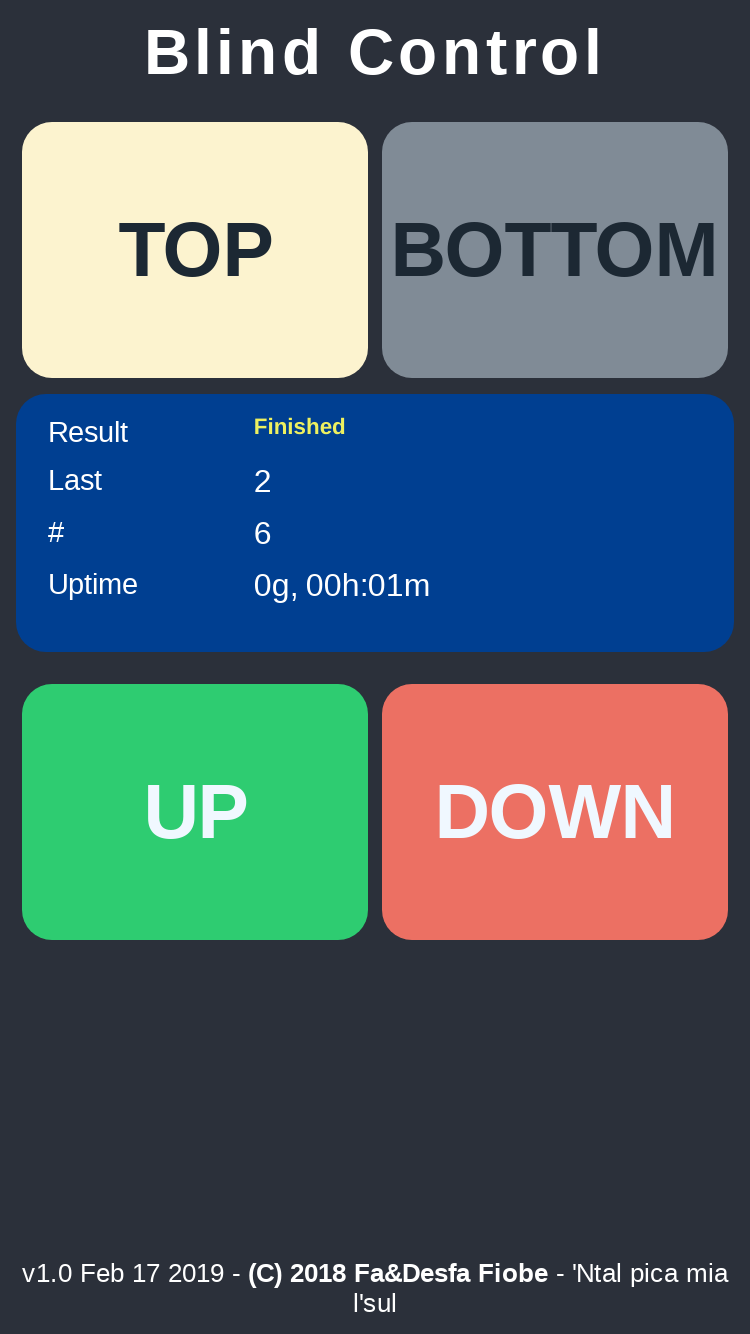
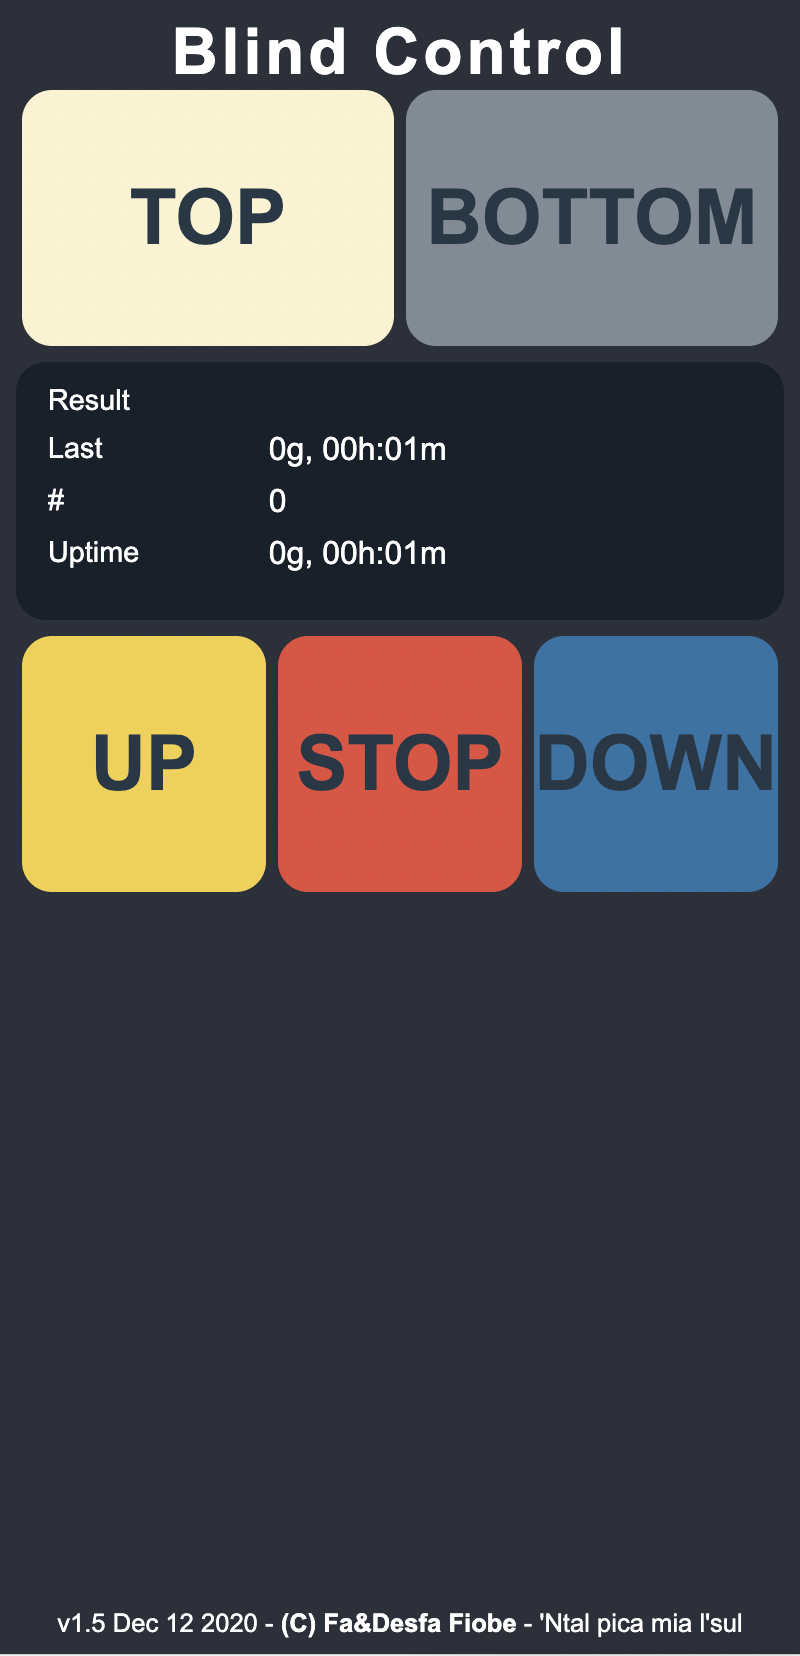
1.5: new wifi mgmt

diff --git a/src/main.cpp b/src/main.cpp
@@ -1,6 +1,6 @@
 /*
- Gates Control
-*/
+   Gates Control
+   */
 #include <pgmspace.h>
 #include <Ticker.h>
 #include "config.h"
@@ -16,20 +16,54 @@
 
 ////////////////////////////////////////////////////////////////////////////////
 BlindControl blindCtl;
-Ticker uptimeCtrTimer;
+static constexpr unsigned int k_MaxConnectTime = 1000UL;
+WIFI* g_WIFI;
+static Ticker uptimeCtrTimer;
 NVConfig  nvConfig;
 
 /******************************************************************************/
 
-static void  uptimeCtrCb(void) {
+static
+void
+uptimeCtrCb (
+    void
+    )
+{
     blindCtl.updateCounters();
 }
 
+static
+void
+ConnectedCallback (
+    void
+    )
+{
+    unsigned int originalState;
 
-void setup(void)
+    originalState = digitalRead(GPIO_LED);
+
+    for (int i = 0; i < 4; i++)
+    {
+        //
+        // Flash led to say we have just connected.
+        //
+        digitalWrite(GPIO_LED, (i % 2) ? originalState : !originalState);
+        delay(100);
+    }
+
+    digitalWrite(GPIO_LED, originalState);
+}
+
+void setup (
+    void
+    )
 {
     blindCtl.init();
+    g_WIFI = new WIFI(false, true, Credentials::wifiSsid,Credentials::wifiPasswd, k_MaxConnectTime);
 
+    //
+    // Signal we are up!
+    //
     digitalWrite(GPIO_LED,  HIGH);
     pinMode(GPIO_LED,       OUTPUT);
     for (unsigned i = 0; i < 10; i++) {
@@ -41,11 +75,15 @@ void setup(void)
     pinMode(GPIO_SWITCH, INPUT);
 
     Serial.begin(SERIAL_BAUDRATE);
-    Serial.println("....starting up");
+    Serial.println("...starting up");
 
-    uptimeCtrTimer.attach_ms(1000, uptimeCtrCb);
+    uptimeCtrTimer.attach_ms(1000, static_cast<Ticker::callback_function_t>(uptimeCtrCb));
 
-    wifiSetup(false, true, Credentials::wifiSsid, Credentials::wifiPasswd);
+    g_WIFI->Connect(5000);
+    if (g_WIFI->IsConnected())
+    {
+        ConnectedCallback();
+    }
 
     webpagesInit();
 
@@ -55,56 +93,71 @@ void setup(void)
     Serial.println("setup done");
 }
 
-static void button_check()
+static void button_check (
+    void
+    )
 {
+    typedef enum ButtonState
+    {
+        ButtonPressed = 0,
+        ButtonReleased = 1,
+    } ButtonState;
+
     constexpr int reset_counter_val = 6;
-    static int prevValue = 1;
+    static ButtonState cachedButtonState = ButtonReleased;
     static int lastChangeTs;
     static int resetCtr = 0;
     static bool nextUp;
-    int curValue = digitalRead(GPIO_SWITCH);
+    ButtonState currentButtonState;
 
-    if (millis() - lastChangeTs >= 1000) {
+    currentButtonState = static_cast<ButtonState>(digitalRead(GPIO_SWITCH));
 
-        if (prevValue == 1 && curValue == 0) {
-            lastChangeTs = millis();
-
-            if (!blindCtl.moving()) {
-                if (nextUp) blindCtl.up(BlindControl::UPDOWN_MIN_T_MS);
-                else        blindCtl.down(BlindControl::UPDOWN_MIN_T_MS);
-                nextUp = !nextUp;
-            }
-
-        } else if (prevValue == 0 && curValue == 0) {
-            lastChangeTs = millis();
-            digitalWrite(GPIO_LED,  !digitalRead(GPIO_LED));
-            if (resetCtr++ >= reset_counter_val) {
-                //nvConfig.eeprom_defaults();
-                ESP.restart();  // normal reboot
-            }
-
-        } else if (resetCtr > 0) {
-            resetCtr = 0;
-            digitalWrite(GPIO_LED, HIGH);
-        }
+    //
+    // Only check every 1s
+    //
+    if (millis() - lastChangeTs < 1000)
+    {
+        goto Exit;
     }
 
-    prevValue = curValue;
+    if (cachedButtonState == ButtonReleased && currentButtonState == ButtonPressed)
+    {
+        lastChangeTs = millis();
+
+        if (!blindCtl.moving())
+        {
+            if (nextUp) blindCtl.up(BlindControl::UPDOWN_MIN_T_MS);
+            else        blindCtl.down(BlindControl::UPDOWN_MIN_T_MS);
+            nextUp = !nextUp;
+        }
+    }
+    else if (cachedButtonState == ButtonPressed && currentButtonState == ButtonPressed)
+    {
+        lastChangeTs = millis();
+        digitalWrite(GPIO_LED,  !digitalRead(GPIO_LED));
+        if (resetCtr++ >= reset_counter_val)
+        {
+            //nvConfig.eeprom_defaults();
+            ESP.restart();  // normal reboot
+        }
+    }
+    else if (resetCtr > 0)
+    {
+        resetCtr = 0;
+        digitalWrite(GPIO_LED, HIGH);
+    }
+
+Exit:
+    cachedButtonState = currentButtonState;
 }
 
-void loop(void)
+void loop (
+    void
+    )
 {
     wdtKick();
 
-    if (wifiHasConnected()) {
-        // flash led to say we have just connected...?
-
-        unsigned prev_state = digitalRead(GPIO_LED);
-
-        digitalWrite(GPIO_LED, !prev_state);
-        delay(100);
-        digitalWrite(GPIO_LED, prev_state);
-    }
+    g_WIFI->Loop(ConnectedCallback);
 
     button_check();
     webserverLoop();

diff --git a/src/config.h b/src/config.h
@@ -3,7 +3,13 @@
 
 #define GPIO_RL1    12
 #define GPIO_RL2    5
-#define GPIO_LED    13
+#if defined(BOARD_SONOFF_DUAL)
+#  define GPIO_LED    13
+#elif defined(BOARD_D1_MINI)
+#  define GPIO_LED    2
+#else
+#  error No board defined or board not supported
+#endif
 #define GPIO_SWITCH 10
 #define GPIO_BTN0   0
 #define GPIO_BTN1   9
@@ -20,9 +26,10 @@
 #define EEPROM_START_TAG        0xCAFEBABE
 #define EEPROM_CTRL_CFG_START   8
 
-
-#define FW_VERSION          "1.4"
+#define FW_VERSION          "1.5"
 // Changelog:
+// 1.5
+// - New WIFI management
 // 1.4
 // - Fix html pages title
 // - Add repeat function to UP and DOWN buttons, to repeat going up or
